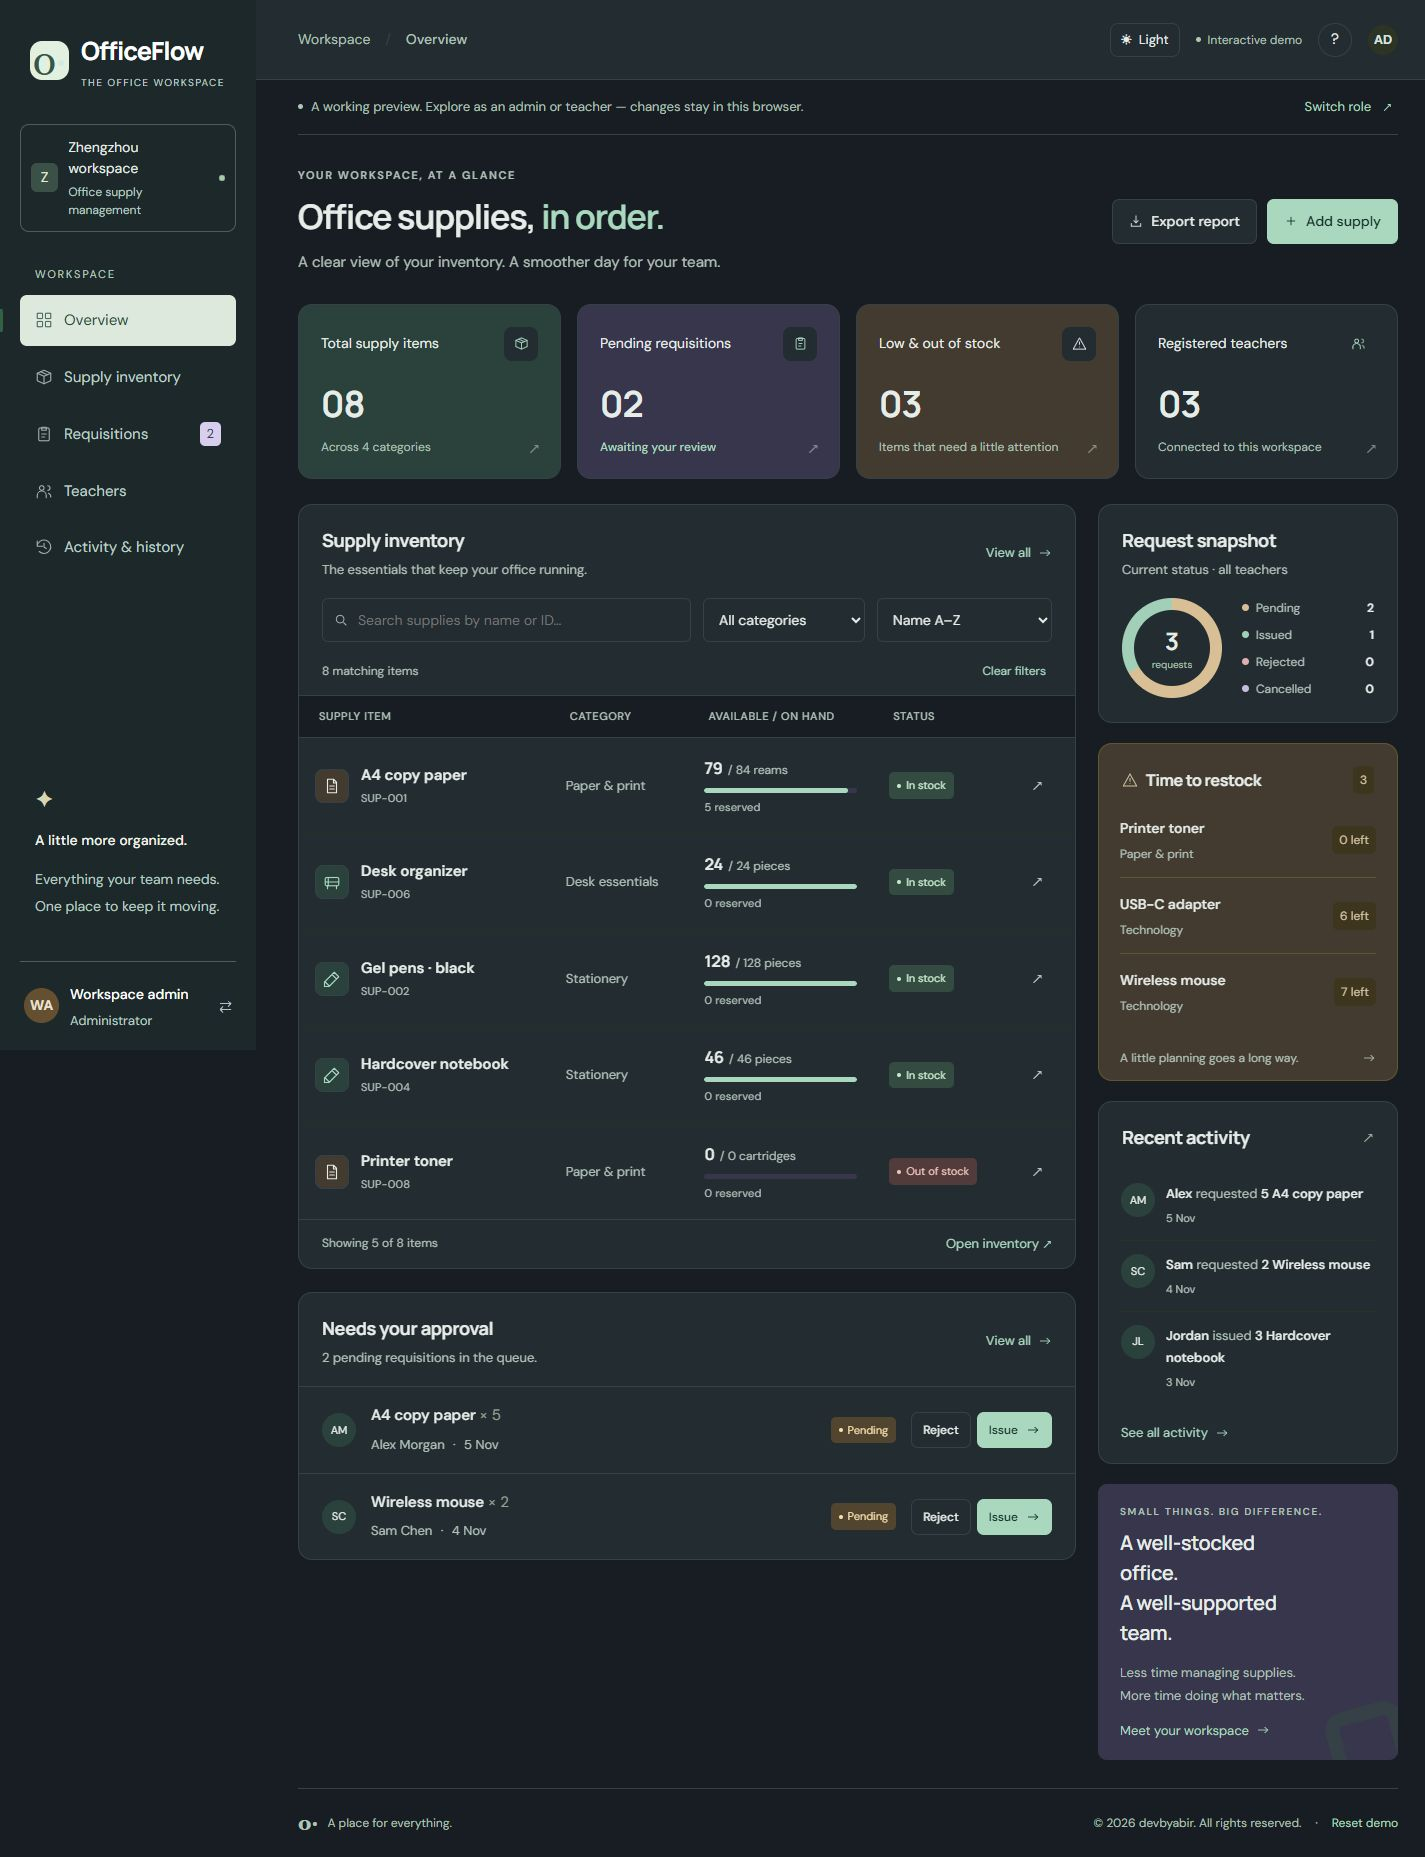
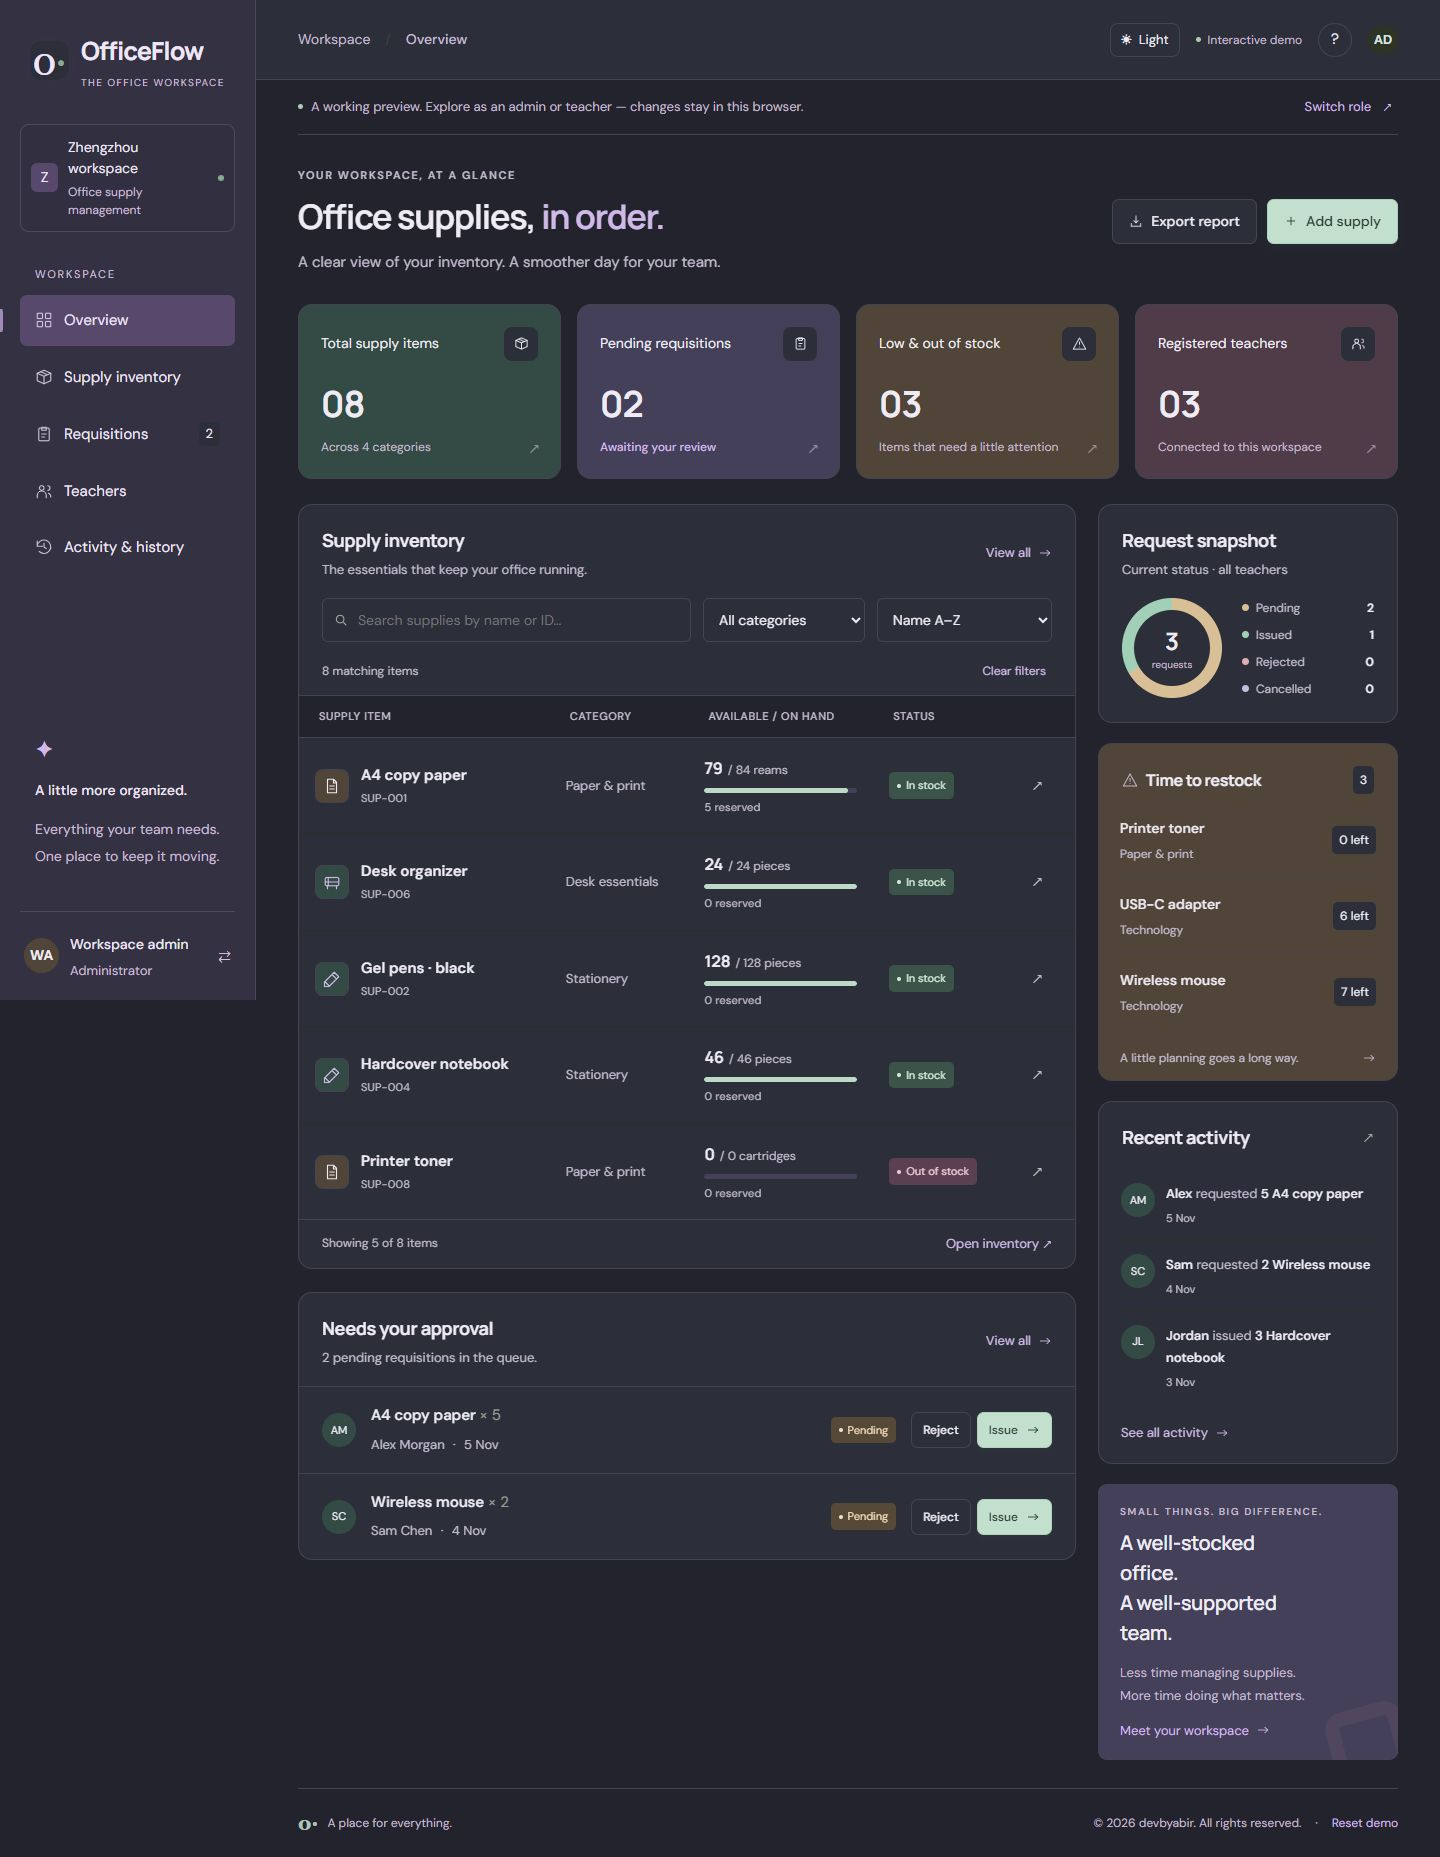
Apply cohesive soft pastel navigation, surfaces and actions

diff --git a/docs/site/theme.css b/docs/site/theme.css
@@ -916,3 +916,189 @@ thead {
   color: #ccd4d7;
   background: #3d464a;
 }
+
+/* Soft pastel system: the navigation and actions share the palette. */
+:root {
+  --bg: #fcf9f3;
+  --surface: #fffefd;
+  --ink: #39384b;
+  --muted: #6c687a;
+  --line: #e9e3ec;
+  --green: #70568c;
+  --pastel-mint: #e5f3eb;
+  --pastel-lilac: #eee7f8;
+  --pastel-peach: #fff0e1;
+  --pastel-blush: #f9e8ed;
+  --sidebar-bg: #eee7f6;
+  --sidebar-ink: #514361;
+  --sidebar-muted: #70617e;
+  --sidebar-line: #d9cee5;
+  --sidebar-active: #ded0ef;
+  --action-bg: #d7edde;
+  --action-ink: #31573f;
+  --action-border: #c4dfce;
+}
+:root[data-theme="dark"] {
+  --bg: #22232d;
+  --surface: #2c2e3a;
+  --ink: #eeebf4;
+  --muted: #c2bbce;
+  --line: #454252;
+  --green: #d0b9e9;
+  --pastel-mint: #334b44;
+  --pastel-lilac: #45405a;
+  --pastel-peach: #514438;
+  --pastel-blush: #503c48;
+  --sidebar-bg: #343142;
+  --sidebar-ink: #eee5f7;
+  --sidebar-muted: #c8bcd5;
+  --sidebar-line: #50465e;
+  --sidebar-active: #57486c;
+  --action-bg: #c3dfcd;
+  --action-ink: #283e31;
+  --action-border: #b2d0be;
+}
+.sidebar {
+  background: var(--sidebar-bg);
+  color: var(--sidebar-ink);
+  border-right: 1px solid var(--sidebar-line);
+}
+.brand,
+.profile,
+.side-note strong {
+  color: var(--sidebar-ink);
+}
+.brand-mark {
+  background: var(--surface);
+  color: var(--sidebar-ink);
+  box-shadow: 0 2px 10px #77638d0b;
+}
+.brand-mark span {
+  color: #8bab98;
+}
+.brand small,
+.nav-label,
+.workspace small,
+.profile small,
+.side-note p,
+.profile-chevron {
+  color: var(--sidebar-muted);
+}
+.workspace {
+  color: var(--sidebar-ink);
+  border-color: var(--sidebar-line);
+  background: color-mix(in srgb, var(--surface) 28%, transparent);
+}
+.workspace-icon {
+  background: var(--sidebar-active);
+  color: var(--sidebar-ink);
+}
+.workspace-dot {
+  background: #84ab95;
+}
+.side-note {
+  border-color: var(--sidebar-line);
+}
+.note-icon {
+  color: var(--green);
+}
+.nav-item {
+  color: var(--sidebar-ink);
+}
+.nav-item.active,
+.nav-item:hover {
+  background: var(--sidebar-active);
+  color: var(--sidebar-ink);
+}
+.nav-item.active:before {
+  background: #a08bb8;
+}
+.nav-count {
+  background: var(--surface);
+  color: var(--sidebar-ink);
+}
+.profile .avatar {
+  background: var(--pastel-peach);
+  color: var(--ink);
+}
+.button.primary {
+  background: var(--action-bg);
+  border-color: var(--action-border);
+  color: var(--action-ink);
+  box-shadow: 0 3px 8px #658d7010;
+}
+:root[data-theme="dark"] .button.primary {
+  color: var(--action-ink);
+}
+.button.primary:hover {
+  background: var(--action-bg);
+  color: var(--action-ink);
+  filter: brightness(0.97);
+}
+.metric:nth-child(3) {
+  background: var(--pastel-peach);
+}
+.metric:nth-child(4) {
+  background: var(--pastel-blush);
+}
+.metric-icon,
+.metric.warning .metric-icon {
+  color: var(--ink);
+  background: var(--surface);
+}
+.restock {
+  background: var(--pastel-peach);
+  border-color: var(--line);
+}
+.restock-item {
+  border-color: var(--line);
+}
+.stock-mini {
+  background: var(--surface);
+  color: var(--ink);
+}
+.restock-title svg {
+  color: var(--muted);
+}
+.welcome-card {
+  background: var(--pastel-lilac);
+}
+.welcome-decoration {
+  border-color: var(--sidebar-line);
+}
+.stock-track > span {
+  background: #8fbaa1;
+}
+:root[data-theme="dark"] .stock-track > span {
+  background: #bdd9c8;
+}
+.badge,
+.badge.issued {
+  background: #e1f0e6;
+  color: #365f47;
+}
+.badge.low,
+.badge.pending {
+  background: #faedda;
+  color: #74552c;
+}
+.badge.out,
+.badge.rejected {
+  background: #f7e3e9;
+  color: #83485d;
+}
+:root[data-theme="dark"] .badge,
+:root[data-theme="dark"] .badge.issued {
+  background: #3b5348;
+  color: #d1ebda;
+}
+:root[data-theme="dark"] .badge.low,
+:root[data-theme="dark"] .badge.pending {
+  background: #574937;
+  color: #f4dfbd;
+}
+:root[data-theme="dark"] .badge.out,
+:root[data-theme="dark"] .badge.rejected {
+  background: #5a4050;
+  color: #f0c9d9;
+}

diff --git a/docs/site/theme.js b/docs/site/theme.js
@@ -18,7 +18,7 @@
       );
     }
     document.querySelector('meta[name="theme-color"]').content =
-      theme === "dark" ? "#171d22" : "#f5f4fa";
+      theme === "dark" ? "#22232d" : "#fcf9f3";
   }
   apply(
     ["light", "dark"].includes(saved)
